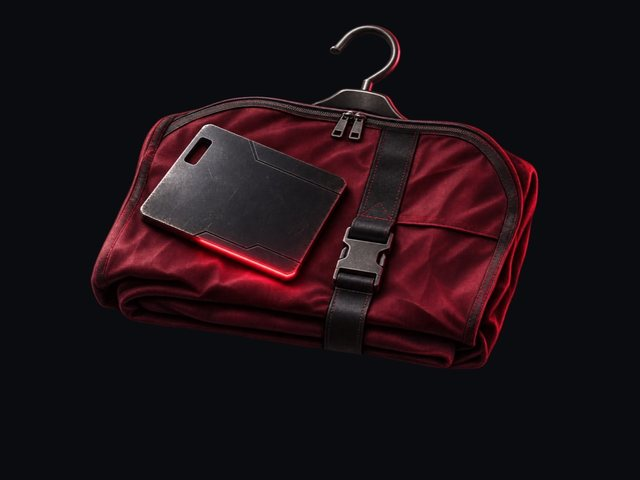
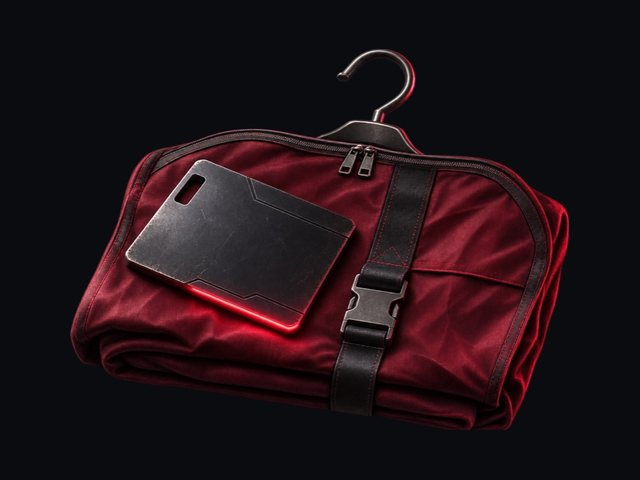
v0.42.2: center store item images
Claude-Session: https://claude.ai/code/session_01YWSFXPWUoN1sfQZVxbL2Av

Changed region(s): [[0.0938, 0.0625, 0.9062, 0.9062], [0.5625, 0.0312, 0.5938, 0.0625], [0.4375, 0.4375, 0.4688, 0.4688]]

diff --git a/public/items.js b/public/items.js
@@ -311,7 +311,7 @@ var css=document.createElement('style');css.textContent=[
 '.ic{display:inline-block;vertical-align:-3px;flex:none}',
 '.stg{display:grid;grid-template-columns:1fr 1fr;gap:10px;margin:6px 0 12px}',
 '.stc{background:#11171e;border:1px solid rgba(255,255,255,.07);clip-path:var(--cut);display:flex;flex-direction:column;min-width:0}',
-'.sti{aspect-ratio:4/3;background:#0d1218 center/cover no-repeat;position:relative;display:flex;align-items:center;justify-content:center;color:var(--c);background-blend-mode:normal}',
+'.sti{aspect-ratio:4/3;background:#0b0c10 center/cover no-repeat;position:relative;display:flex;align-items:center;justify-content:center;color:var(--c);background-blend-mode:normal}',
 '.sti img{position:absolute;inset:0;width:100%;height:100%;object-fit:cover}.sti span{display:none}.sti.noimg img{display:none}.sti.noimg span{display:flex}',
 '.sti span{width:58px;height:58px;border-radius:50%;display:flex;align-items:center;justify-content:center;background:radial-gradient(circle,rgba(255,59,82,.22),rgba(255,59,82,0) 70%);box-shadow:0 0 0 1px rgba(255,59,82,.35) inset}',
 '.stb{padding:10px 10px 12px;display:flex;flex-direction:column;gap:4px;flex:1}',

diff --git a/public/index.html b/public/index.html
@@ -837,7 +837,7 @@ Object.keys(STORY).forEach(function(id){
     SIDX[id].push(MIS.length);MIS.push(m);
   });
 });
-var VERSION='0.42.1';
+var VERSION='0.42.2';
 var PROG={c:{},s:{},b:{},end:{},g:{},n:{},pt:0,name:'',vol:1,all:false,bgm:true,bvol:0.6,bth:true,sil:true};
 try{var pj=JSON.parse(localStorage.getItem('s6prog')||'null');if(pj)for(var pk in pj)PROG[pk]=pj[pk];}catch(e){}
 function saveProg(){try{localStorage.setItem('s6prog',JSON.stringify(PROG));}catch(e){}}

diff --git a/docs/CHANGELOG.md b/docs/CHANGELOG.md
@@ -1,5 +1,8 @@
 # 변경 기록
 
+## v0.42.2 (2026-11-24)
+- 스토어 이미지 피사체를 카드 가운데로(피사체 영역을 잘라 4:3 캔버스 중앙에 재배치).
+
 ## v0.42.1 (2026-11-24)
 - 스토어 아이템 이미지 6장 적용(`st_*.jpg`, 640×480). 이미지가 있으면 아이콘 원을 숨기고, 없으면 아이콘으로 대체.
 
